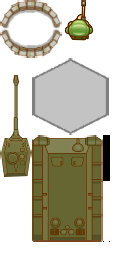
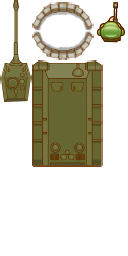
MTD-20-Added Humvee and Sprinter
Added Humvee and Sprinter enemy classes

diff --git a/core/src/com/eric/mtd/game/model/actor/combat/CombatActor.java b/core/src/com/eric/mtd/game/model/actor/combat/CombatActor.java
@@ -41,6 +41,7 @@ public abstract class CombatActor extends GameActor implements Pool.Poolable, IC
 	private float[] bodyPoints;
 	private CombatActor target;
 	private ShapeRenderer rangeShape = Resources.getShapeRenderer();
+	private ShapeRenderer debugBody = Resources.getShapeRenderer();
 	private Color rangeColor = new Color(1.0f, 0f, 0f, 0.5f);
 	private boolean showRange, hasArmor, dead;
 	private Pool<CombatActor> pool;
@@ -109,13 +110,11 @@ public abstract class CombatActor extends GameActor implements Pool.Poolable, IC
 			rangeShape.end();
 
 		}
-		/*
-		 * debugBody.setProjectionMatrix(this.getParent().getStage().getCamera()
-		 * .combined); debugBody.begin(ShapeType.Line);
-		 * debugBody.setColor(rangeColor);
-		 * debugBody.polygon(this.getBody().getTransformedVertices());
-		 * debugBody.end();
-		 */
+		debugBody.setProjectionMatrix(this.getParent().getStage().getCamera().combined);
+		debugBody.begin(ShapeType.Line);
+		debugBody.setColor(Color.YELLOW);
+		debugBody.polygon(getBody().getTransformedVertices());
+		debugBody.end();
 		batch.begin();
 		super.draw(batch, alpha);
 	}
@@ -181,7 +180,7 @@ public abstract class CombatActor extends GameActor implements Pool.Poolable, IC
 	}
 
 	public abstract void attackTarget();
-
+	
 	@Override
 	public Polygon getBody() {
 		Polygon poly = new Polygon(bodyPoints);

diff --git a/core/src/com/eric/mtd/game/model/actor/combat/enemy/EnemyHumvee.java b/core/src/com/eric/mtd/game/model/actor/combat/enemy/EnemyHumvee.java
@@ -15,16 +15,16 @@ import com.eric.mtd.game.service.actorfactory.ActorFactory.CombatActorPool;
  */
 public class EnemyHumvee extends Enemy implements IVehicle, IPassiveEnemy {
 
-	public static final float HEALTH = 8;
-	public static final float ARMOR = 4;
+	public static final float HEALTH = 16;
+	public static final float ARMOR = 8;
 	public static final float ATTACK = 0;
 	public static final float ATTACK_SPEED = 0f;
 	public static final float RANGE = 0;
 	public static final float SPEED = 140f;
 
-	public static final float[] BODY = { 5, 22, 5, 34, 26, 34, 26, 22 };
-	public static final Vector2 GUN_POS = new Vector2(4, 26);
-	public static final Vector2 TEXTURE_SIZE = new Vector2(32, 56);
+	public static final float[] BODY = {0,0, 0,79, 40, 79, 40, 0 };
+	public static final Vector2 GUN_POS = new Vector2(0, 0);
+	public static final Vector2 TEXTURE_SIZE = new Vector2(40, 79);
 
 	public EnemyHumvee(TextureRegion actorRegion, CombatActorPool<CombatActor> pool) {
 		super(actorRegion, pool, BODY, TEXTURE_SIZE, GUN_POS, SPEED, HEALTH, ARMOR, ATTACK, ATTACK_SPEED, RANGE);
